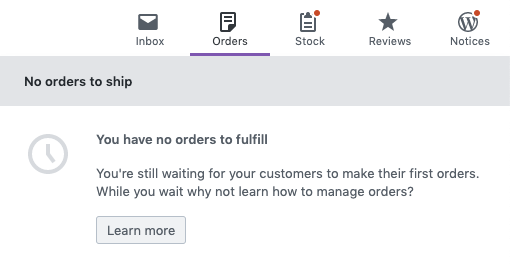
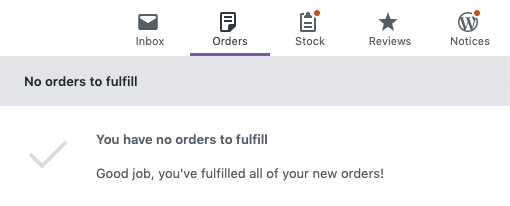
Fix orders panel documentation.
Additionally remove use of "ship" in messaging - not all stores sell physical products.

diff --git a/client/header/activity-panel/panels/orders.js b/client/header/activity-panel/panels/orders.js
@@ -226,7 +226,7 @@ class OrdersPanel extends Component {
 		const title =
 			isRequesting || orders.length
 				? __( 'Orders', 'woocommerce-admin' )
-				: __( 'No orders to ship', 'woocommerce-admin' );
+				: __( 'No orders to fulfill', 'woocommerce-admin' );
 
 		return (
 			<Fragment>

diff --git a/docs/woocommerce.com/activity-panels.md b/docs/woocommerce.com/activity-panels.md
@@ -24,7 +24,7 @@ This Inbox Panel is dedicated to informational content coming from multiple sour
 
 ![Orders Activity Panel](images/activity-panels-orders.png)
 
-The Orders Panel displays Orders that are in need of fulfillment. You can click "begin fulfilment" to go to the Order Details screen.
+The Orders Panel displays Orders that are considered "actionable". Orders needing fulfillment are shown by default. You can click "begin fulfillment" to go to the Order Details screen.
 
 ![Orders Activity Panel](images/activity-panels-orders-empty.png)
 
